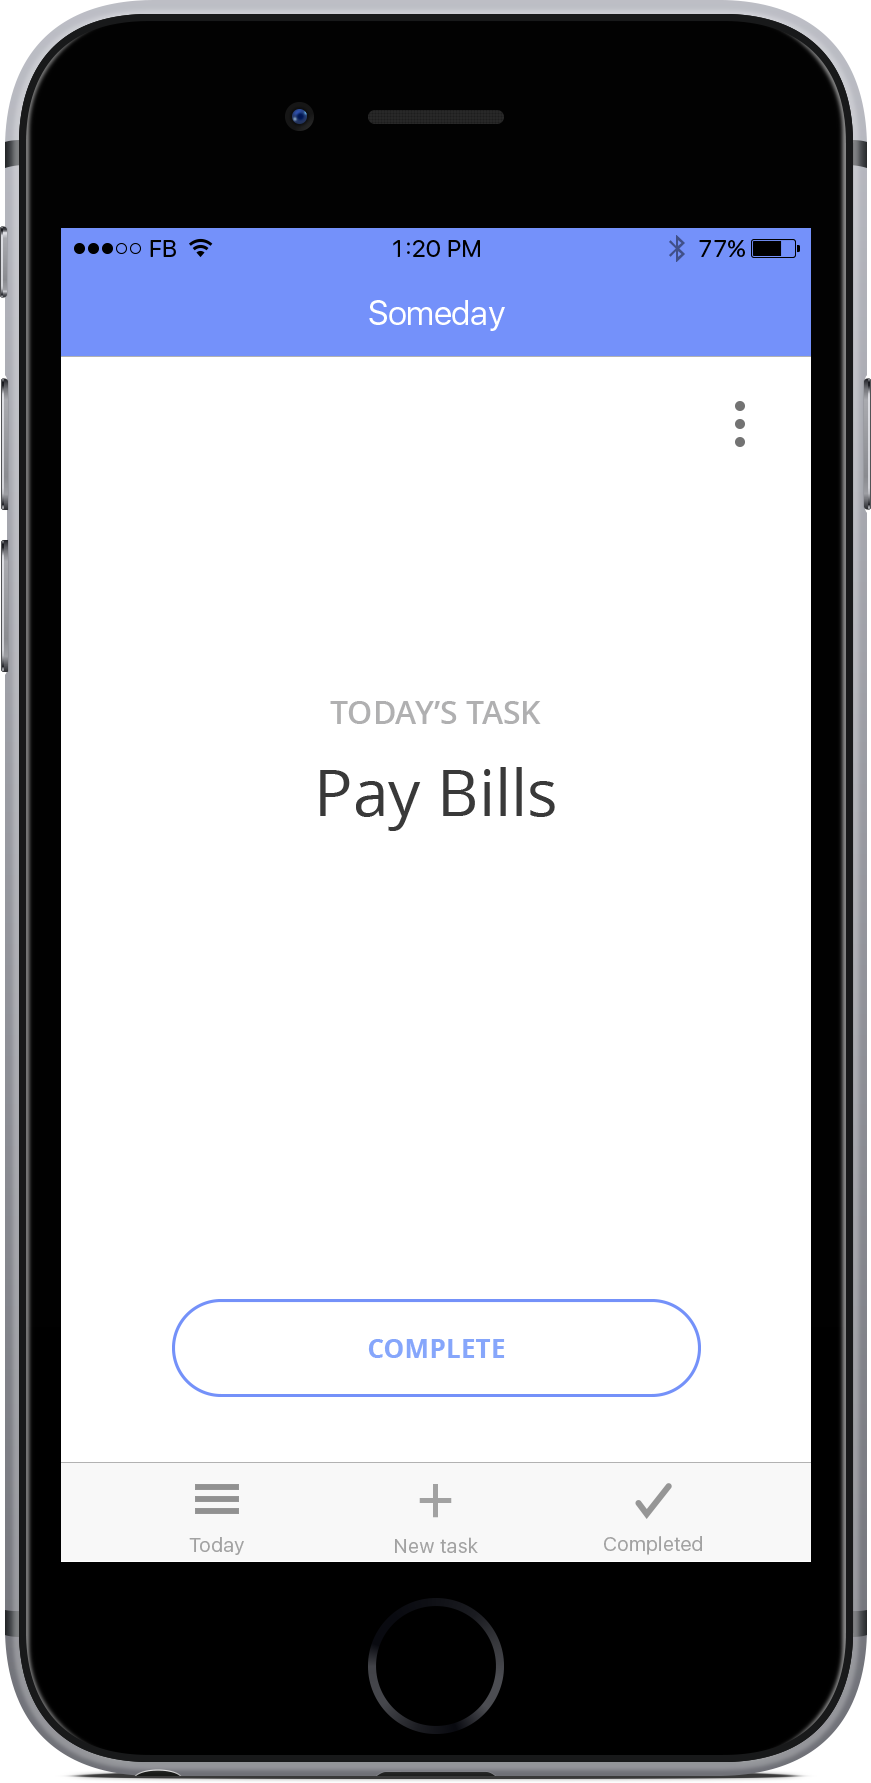
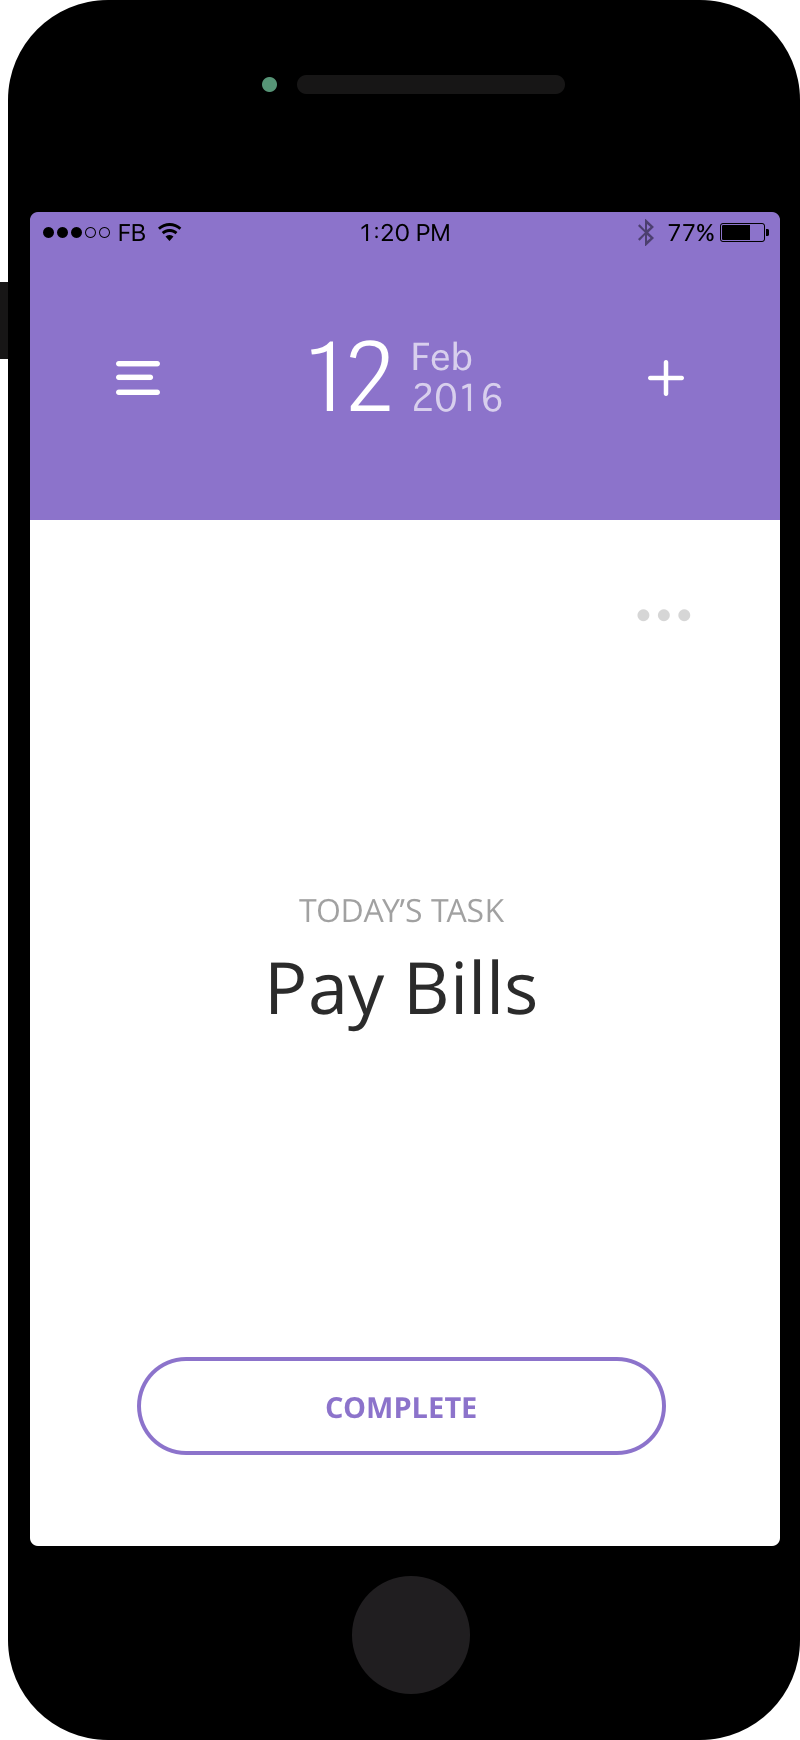
Update iOS image

diff --git a/css/style.css b/css/style.css
@@ -14,7 +14,7 @@ html {
 	padding: 0;
 	margin: 0;
 	height: 100%;
-	background: #7491fa;
+	background: #695993;
 	color: #fff;
 	font: 400 16px/24px "Source Sans Pro", sans-serif;
 }
